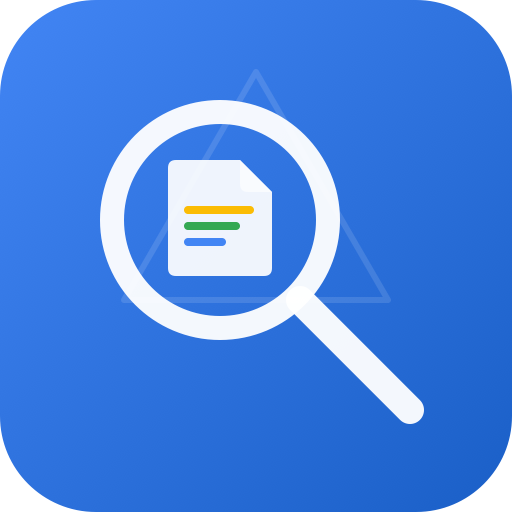
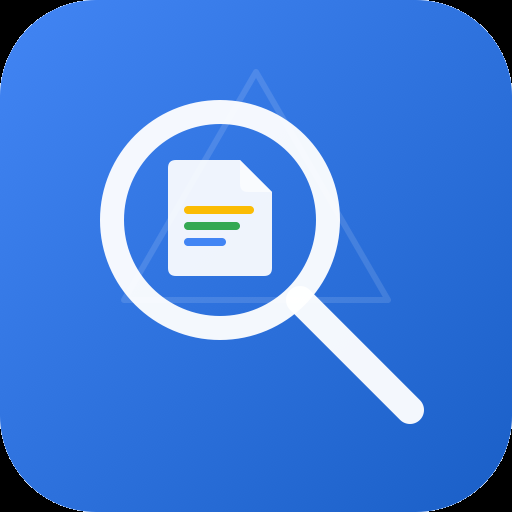
fix: レビュー指摘対応・dead code削除・__main__.py追加
- workflow/run.py, finder.py: 未使用の get_file_id() を削除
- workflow/run.py: ruff SIM102/PTH112 違反を修正、text=True 追加
- workflow/info.plist: バージョンを 0.3.0 に修正
- src/utils.py: is_dir() チェックと PermissionError ハンドリング追加
- src/__main__.py: python -m gdfid_finder 対応
- workflow/icon.png: 四隅の白余白を黒に変更
- CLAUDE.md: 不要な関連ドキュメント参照を削除
- README.md: ドキュメント整理・重複セクション統合

diff --git a/tests/test_finder.py b/tests/test_finder.py
@@ -9,7 +9,6 @@ from typing import List
 from unittest.mock import MagicMock, patch
 
 from gdfid_finder.finder import (
-    _get_file_id,
     _has_file_id,
     _search_in_path,
     _search_iterative,
@@ -400,95 +399,3 @@ class TestHasFileId:
             # Verify short ID does NOT match long target
             call_count = 1  # Reset to make next call return short_data
             assert _has_file_id(path_bytes, long_data) is False
-
-
-class TestGetFileId:
-    """Tests for _get_file_id function."""
-
-    def test_returns_file_id_on_success(self, tmp_path: Path) -> None:
-        """Should return file ID when getxattr succeeds."""
-        test_data = b"test_file_id"
-
-        def mock_getxattr(
-            _path: bytes,
-            _name: bytes,
-            value: object,
-            _size: int,
-            _position: int,
-            _options: int,
-        ) -> int:
-            ctypes.memmove(value, test_data, len(test_data))
-            return len(test_data)
-
-        mock_libc = MagicMock()
-        mock_libc.getxattr.side_effect = mock_getxattr
-
-        with patch("gdfid_finder.finder._libc", mock_libc):
-            result = _get_file_id(tmp_path)
-            assert result == "test_file_id"
-
-    def test_returns_none_on_failure(self, tmp_path: Path) -> None:
-        """Should return None when getxattr fails."""
-        mock_libc = MagicMock()
-        mock_libc.getxattr.return_value = -1
-
-        with patch("gdfid_finder.finder._libc", mock_libc):
-            result = _get_file_id(tmp_path)
-            assert result is None
-
-    def test_returns_none_on_exception(self, tmp_path: Path) -> None:
-        """Should return None when an exception occurs."""
-        mock_libc = MagicMock()
-        mock_libc.getxattr.side_effect = Exception("error")
-
-        with patch("gdfid_finder.finder._libc", mock_libc):
-            result = _get_file_id(tmp_path)
-            assert result is None
-
-    def test_returns_none_when_libc_unavailable(self, tmp_path: Path) -> None:
-        """Should return None when libc is not available."""
-        with patch("gdfid_finder.finder._libc", None):
-            result = _get_file_id(tmp_path)
-            assert result is None
-
-    def test_short_id_after_long_id_no_corruption(self, tmp_path: Path) -> None:
-        """Should return exact ID even when buffer contains leftover data.
-
-        Regression test: the shared ctypes buffer retains old data from
-        previous calls. If raw[:size] is not used (e.g. using .value instead),
-        a shorter ID read after a longer one would include stale bytes.
-        """
-        long_data = b"1BxiMVs0XRA5nFMdKvBdBZjgmUUqptlbs74OgvE2upms"
-        short_data = b"1akwdmoOKcbdPMAm2HcuclRARu53ypHSt"
-
-        call_count = 0
-
-        def mock_getxattr(
-            _path: bytes,
-            _name: bytes,
-            value: object,
-            _size: int,
-            _position: int,
-            _options: int,
-        ) -> int:
-            nonlocal call_count
-            call_count += 1
-            data = long_data if call_count == 1 else short_data
-            ctypes.memmove(value, data, len(data))
-            return len(data)
-
-        mock_libc = MagicMock()
-        mock_libc.getxattr.side_effect = mock_getxattr
-
-        file_a = tmp_path / "file_a.txt"
-        file_b = tmp_path / "file_b.txt"
-        file_a.write_text("a")
-        file_b.write_text("b")
-
-        with patch("gdfid_finder.finder._libc", mock_libc):
-            result_long = _get_file_id(file_a)
-            result_short = _get_file_id(file_b)
-
-        assert result_long == long_data.decode("utf-8")
-        assert result_short == short_data.decode("utf-8")
-        assert len(result_short) == len(short_data)  # type: ignore[arg-type]

diff --git a/workflow/run.py b/workflow/run.py
@@ -98,26 +98,6 @@ def has_file_id(path_bytes: bytes, target_bytes: bytes) -> bool:
         return False
 
 
-def get_file_id(path: Path) -> Optional[str]:
-    """Get the Google Drive file ID from a path's extended attributes.
-
-    Uses ctypes to call macOS getxattr() directly with a fixed-size buffer,
-    reducing syscalls from 2 to 1 per file.
-    """
-    if _libc is None:
-        return None
-    try:
-        path_bytes = str(path).encode("utf-8")
-        size = _libc.getxattr(
-            path_bytes, _XATTR_BYTES, _xattr_buf, _XATTR_BUF_SIZE, 0, 0
-        )
-        if size <= 0:
-            return None
-        return _xattr_buf.raw[:size].decode("utf-8").strip()
-    except Exception:
-        return None
-
-
 def search_iterative(
     root: Path, file_id: str, visited: Set[str]
 ) -> Optional[Path]:
@@ -164,9 +144,8 @@ def search_iterative(
         if not is_dir and not is_symlink:
             continue
 
-        if is_symlink and not is_dir:
-            if not os.path.isdir(path_str):
-                continue
+        if is_symlink and not is_dir and not Path(path_str).is_dir():
+            continue
 
         try:
             real_path = os.path.realpath(path_str) if is_symlink else path_str
@@ -382,6 +361,7 @@ def reveal_in_finder(path: Path) -> bool:
     result = subprocess.run(
         ["open", "-R", str(path)],
         capture_output=True,
+        text=True,
         check=False,
     )
     return result.returncode == 0

diff --git a/src/gdfid_finder/finder.py b/src/gdfid_finder/finder.py
@@ -243,30 +243,3 @@ def _has_file_id(path_bytes: bytes, target_bytes: bytes) -> bool:
         return _xattr_buf.raw[:size].strip() == target_bytes
     except Exception:
         return False
-
-
-def _get_file_id(path: Path) -> Optional[str]:
-    """Get the Google Drive file ID from a path's extended attributes.
-
-    Uses ctypes to call macOS getxattr() directly with a fixed-size buffer,
-    reducing syscalls from 2 to 1 per file.
-
-    Args:
-        path: Path to check.
-
-    Returns:
-        File ID string if found, None otherwise.
-    """
-    if _libc is None:
-        return None
-    try:
-        path_bytes = str(path).encode("utf-8")
-        # Single getxattr call with fixed-size buffer
-        size = _libc.getxattr(
-            path_bytes, _XATTR_BYTES, _xattr_buf, _XATTR_BUF_SIZE, 0, 0
-        )
-        if size <= 0:
-            return None
-        return _xattr_buf.raw[:size].decode("utf-8").strip()
-    except Exception:
-        return None

diff --git a/src/gdfid_finder/utils.py b/src/gdfid_finder/utils.py
@@ -26,9 +26,14 @@ def get_google_drive_base_paths() -> List[Path]:
     if not cloud_storage.exists():
         return []
 
-    return sorted(
-        p for p in cloud_storage.iterdir() if p.name.startswith("GoogleDrive-")
-    )
+    try:
+        return sorted(
+            p
+            for p in cloud_storage.iterdir()
+            if p.name.startswith("GoogleDrive-") and p.is_dir()
+        )
+    except PermissionError:
+        return []
 
 
 def reveal_in_finder(path: Path) -> RevealResult:

diff --git a/src/gdfid_finder/__main__.py b/src/gdfid_finder/__main__.py
@@ -1,0 +1,9 @@
+"""Allow running as ``python -m gdfid_finder``."""
+
+from __future__ import annotations
+
+import sys
+
+from gdfid_finder.main import main
+
+sys.exit(main())

diff --git a/README.md b/README.md
@@ -19,29 +19,7 @@ GoogleドライブのファイルIDからFinderでファイルを表示するAlf
 
 ## インストール
 
-### ユーザー向け
-
-リリースから `.alfredworkflow` ファイルをダウンロードし、ダブルクリックでインストール。
-
-### 開発者向け
-
-```bash
-# リポジトリをクローン
-git clone https://github.com/hirshim/alfred-gdfid-finder.git
-cd alfred-gdfid-finder
-
-# 依存関係をインストール
-uv sync --dev
-
-# テスト実行
-uv run pytest
-
-# リンター実行
-uv run ruff check src/ tests/
-
-# 型チェック
-uv run mypy src/
-```
+[Releases](https://github.com/hirshim/alfred-gdfid-finder/releases/latest) から `.alfredworkflow` ファイルをダウンロードし、ダブルクリックでインストール。
 
 ## 使い方
 
@@ -96,6 +74,11 @@ alfred-gdfid-finder/
 ## 開発
 
 ```bash
+# セットアップ
+git clone https://github.com/hirshim/alfred-gdfid-finder.git
+cd alfred-gdfid-finder
+uv sync --dev
+
 # コードフォーマット
 uv run ruff format src/ tests/
 

diff --git a/CLAUDE.md b/CLAUDE.md
@@ -125,13 +125,6 @@ uv run ruff format src/ tests/
 - `workflow/run.py` は `src/` の**スタンドアロンコピー**（Alfred配布時に外部パッケージ不要とするため意図的に重複）
 - `src/` を変更した場合は `workflow/run.py` にも同じ変更を反映すること
 
-## 関連ドキュメント
-
-| ファイル | 役割 |
-|----------|------|
-| `project-bootstrap-prompt.md` | プロジェクトの初期設定要件 |
-| `.cursorrules` | Cursor IDEの設定ファイル |
-
 ## ドキュメント管理ルール
 
 - CLAUDE.md は 200 行以内を保つ
